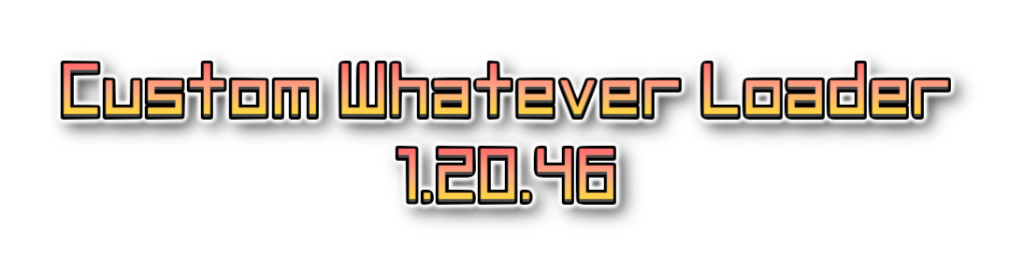
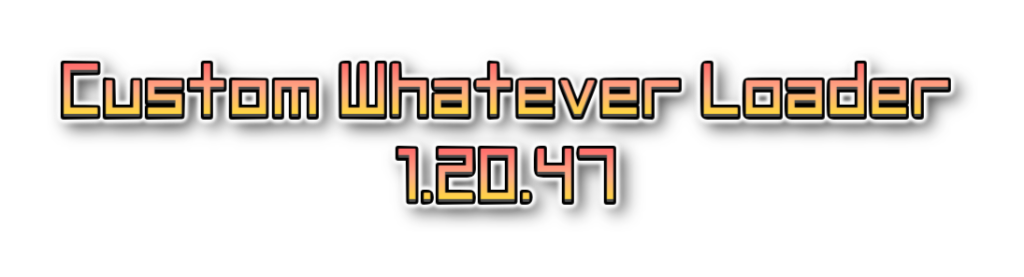
chore(CWL): bump version

diff --git a/CustomWhateverLoader/Loader/CwlAsmInfo.cs b/CustomWhateverLoader/Loader/CwlAsmInfo.cs
@@ -5,5 +5,5 @@ using Cwl;
 [assembly: AssemblyFileVersion(ModInfo.Version)]
 [assembly: AssemblyInformationalVersion($"{GitVersionInformation.CommitDate}+{GitVersionInformation.Sha}")]
 [assembly: AssemblyProduct($"{ModInfo.Guid}+{GitVersionInformation.BranchName}")]
-[assembly: AssemblyTitle(ModInfo.Name)]
+[assembly: AssemblyTitle($"{ModInfo.Name}+{ModInfo.TargetVersion}")]
 [assembly: AssemblyMetadata("Repo", "https://github.com/gottyduke/Elin.Plugins/tree/master/CustomWhateverLoader")]

diff --git a/CustomWhateverLoader/Loader/CustomWhateverLoader.cs b/CustomWhateverLoader/Loader/CustomWhateverLoader.cs
@@ -16,7 +16,7 @@ public static class ModInfo
 #endif
     public const string Guid = "dk.elinplugins.customdialogloader";
     public const string Name = "Custom Whatever Loader";
-    public const string Version = "1.20.46";
+    public const string Version = "1.20.47";
 }
 
 [BepInPlugin(ModInfo.Guid, ModInfo.Name, ModInfo.Version)]
